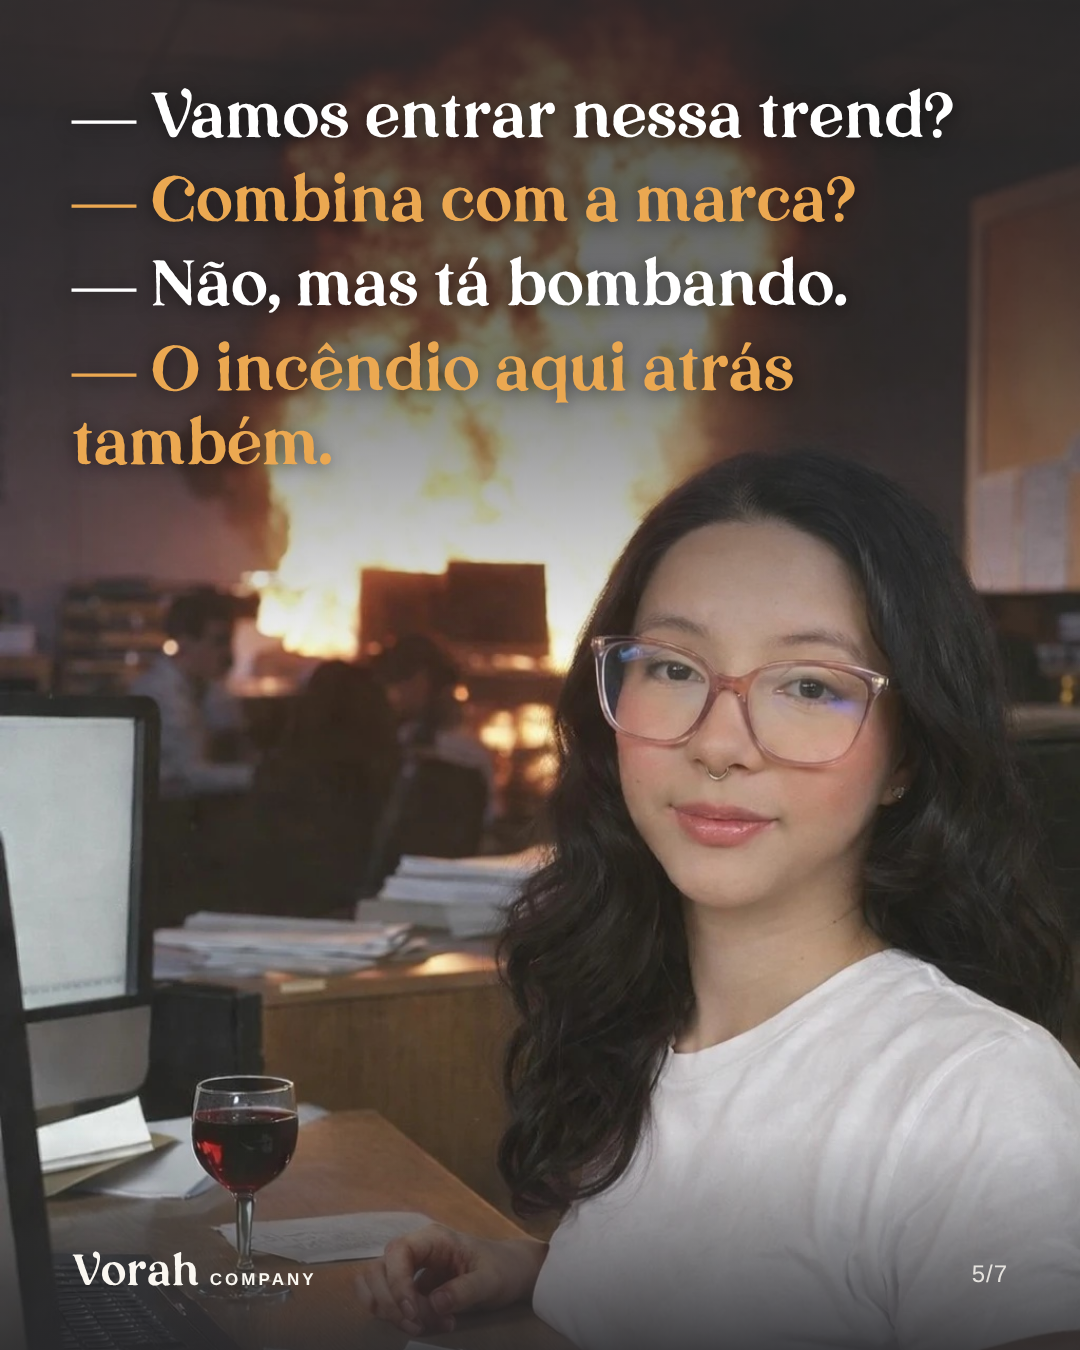
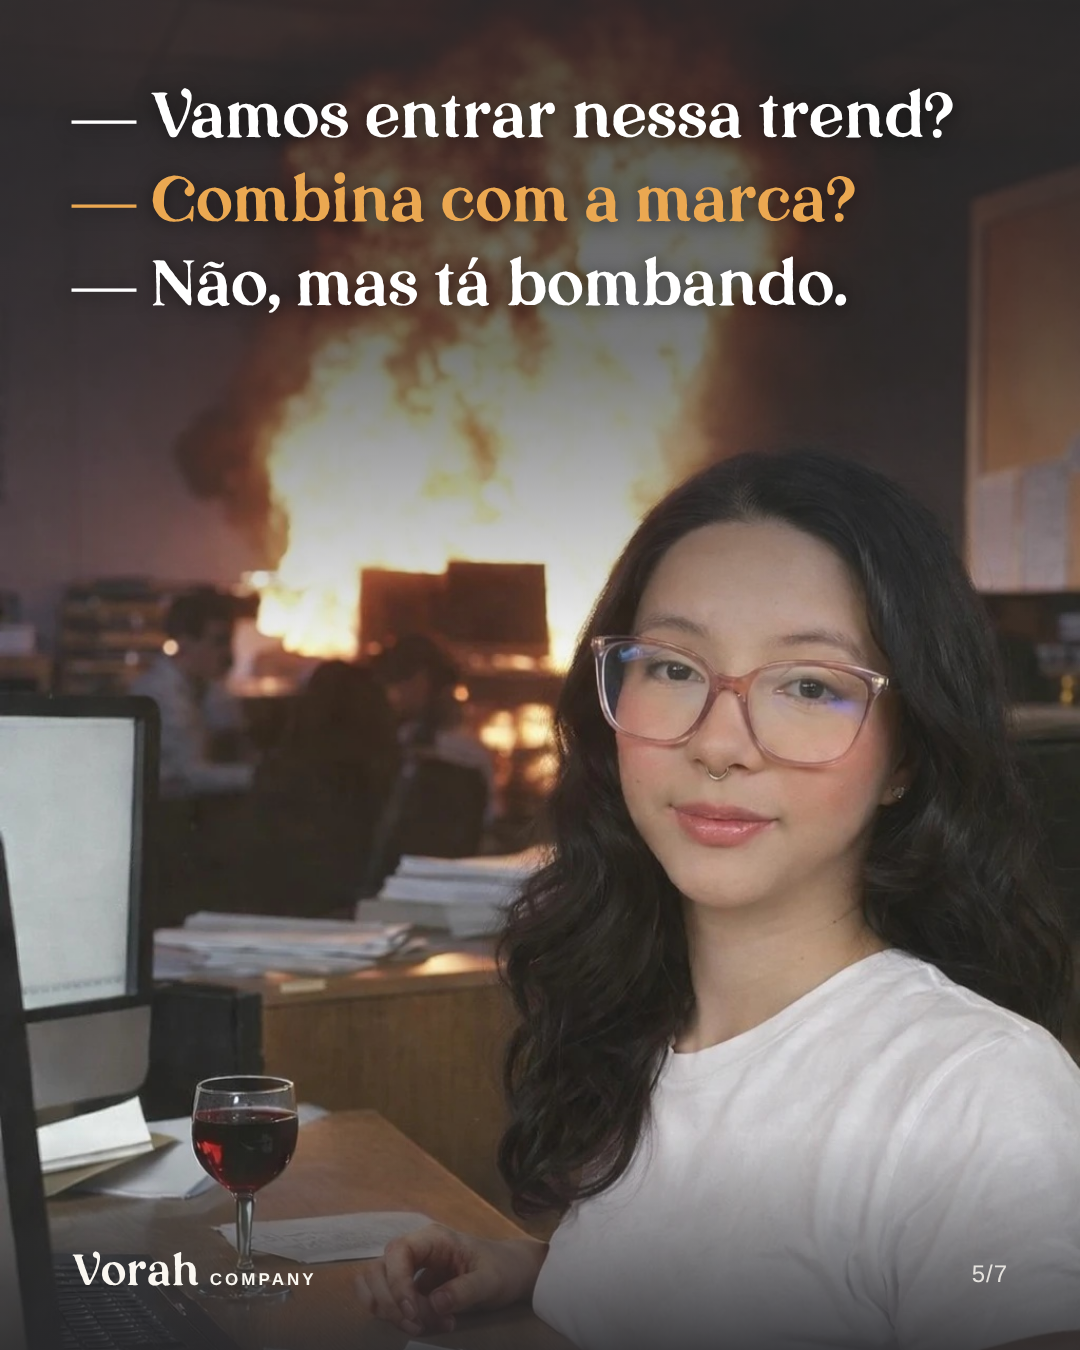
rascunho: carrossel 'Tá tudo sob controle' — remove última fala do slide 5
Claude-Session: https://claude.ai/code/session_01DuUUVvem4D2BGEJjCoMUtZ

Changed region(s): [[0.0611, 0.2489, 0.7333, 0.3422]]

diff --git a/.data/criativos/carrossel-tudo-sob-controle/carrossel.html b/.data/criativos/carrossel-tudo-sob-controle/carrossel.html
@@ -45,7 +45,7 @@ body { background:#111; }
 <section class="slide" id="s2"><div class="txt"><p class="c">— Quero vender mais pelo Instagram.</p><p class="v">— Ótimo. Qual é a oferta?</p><p class="c">— Ainda estou pensando.</p></div><div class="foot"><div class="logo"><span class="w">Vorah</span><span class="c">COMPANY</span></div><div class="pg">2/7</div></div></section>
 <section class="slide" id="s3"><div class="txt"><p class="c">— Postei ontem e ninguém comprou.</p><p class="v">— Foi o primeiro post do mês.</p><p class="v">Vamos de constância, não de milagre.</p></div><div class="foot"><div class="logo"><span class="w">Vorah</span><span class="c">COMPANY</span></div><div class="pg">3/7</div></div></section>
 <section class="slide" id="s4"><div class="txt"><p class="c">— Deu 2 mil curtidas e zero vendas.</p><p class="v">— Curtida paga boleto?</p><p class="v">Vamos falar do que paga.</p></div><div class="foot"><div class="logo"><span class="w">Vorah</span><span class="c">COMPANY</span></div><div class="pg">4/7</div></div></section>
-<section class="slide" id="s5"><div class="txt"><p class="c">— Vamos entrar nessa trend?</p><p class="v">— Combina com a marca?</p><p class="c">— Não, mas tá bombando.</p><p class="v">— O incêndio aqui atrás também.</p></div><div class="foot"><div class="logo"><span class="w">Vorah</span><span class="c">COMPANY</span></div><div class="pg">5/7</div></div></section>
+<section class="slide" id="s5"><div class="txt"><p class="c">— Vamos entrar nessa trend?</p><p class="v">— Combina com a marca?</p><p class="c">— Não, mas tá bombando.</p></div><div class="foot"><div class="logo"><span class="w">Vorah</span><span class="c">COMPANY</span></div><div class="pg">5/7</div></div></section>
 <section class="slide" id="s6"><div class="txt"><p class="c">— Aprovado! Só muda a cor, foto e texto.</p><p class="v">— Então quer um post novo?</p></div><div class="foot"><div class="logo"><span class="w">Vorah</span><span class="c">COMPANY</span></div><div class="pg">6/7</div></div></section>
 <section class="slide" id="s7"><div class="txt"><p>— Queria um marketing sem incêndio.</p><p class="v">— Isso a gente resolve.</p></div><div class="cta"><span class="btn">Entrar em contato</span><div class="h">Link na bio · @vorahcompany</div></div><div class="foot"><div class="logo"><span class="w">Vorah</span><span class="c">COMPANY</span></div><div class="pg">7/7</div></div></section>
 </body></html>
